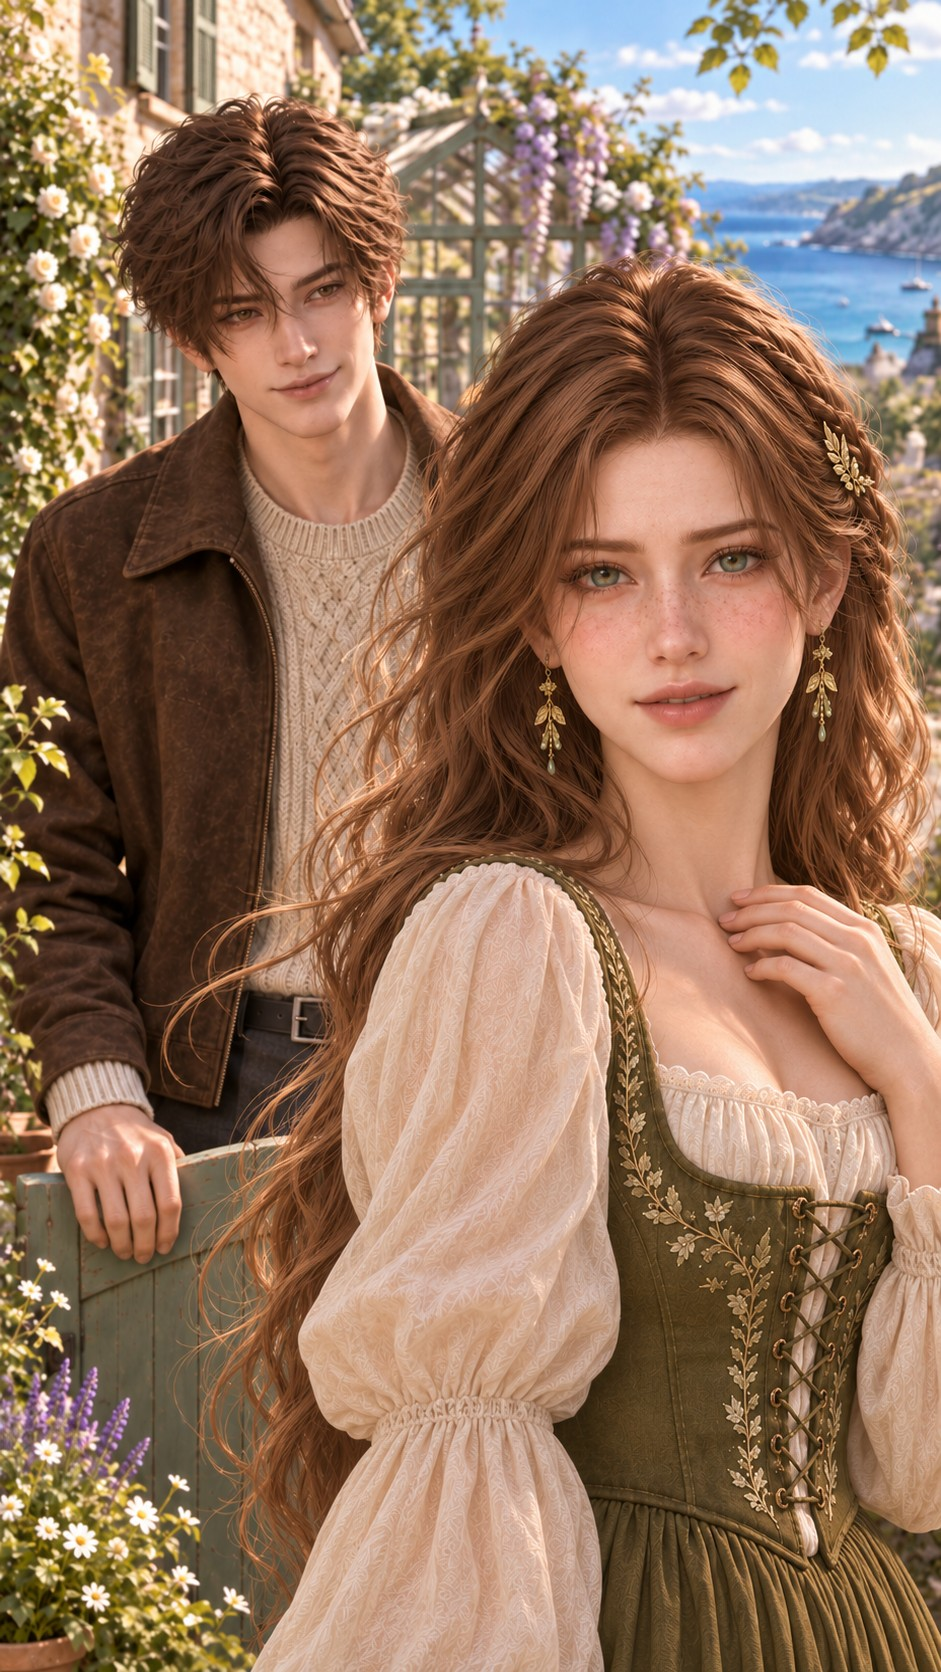
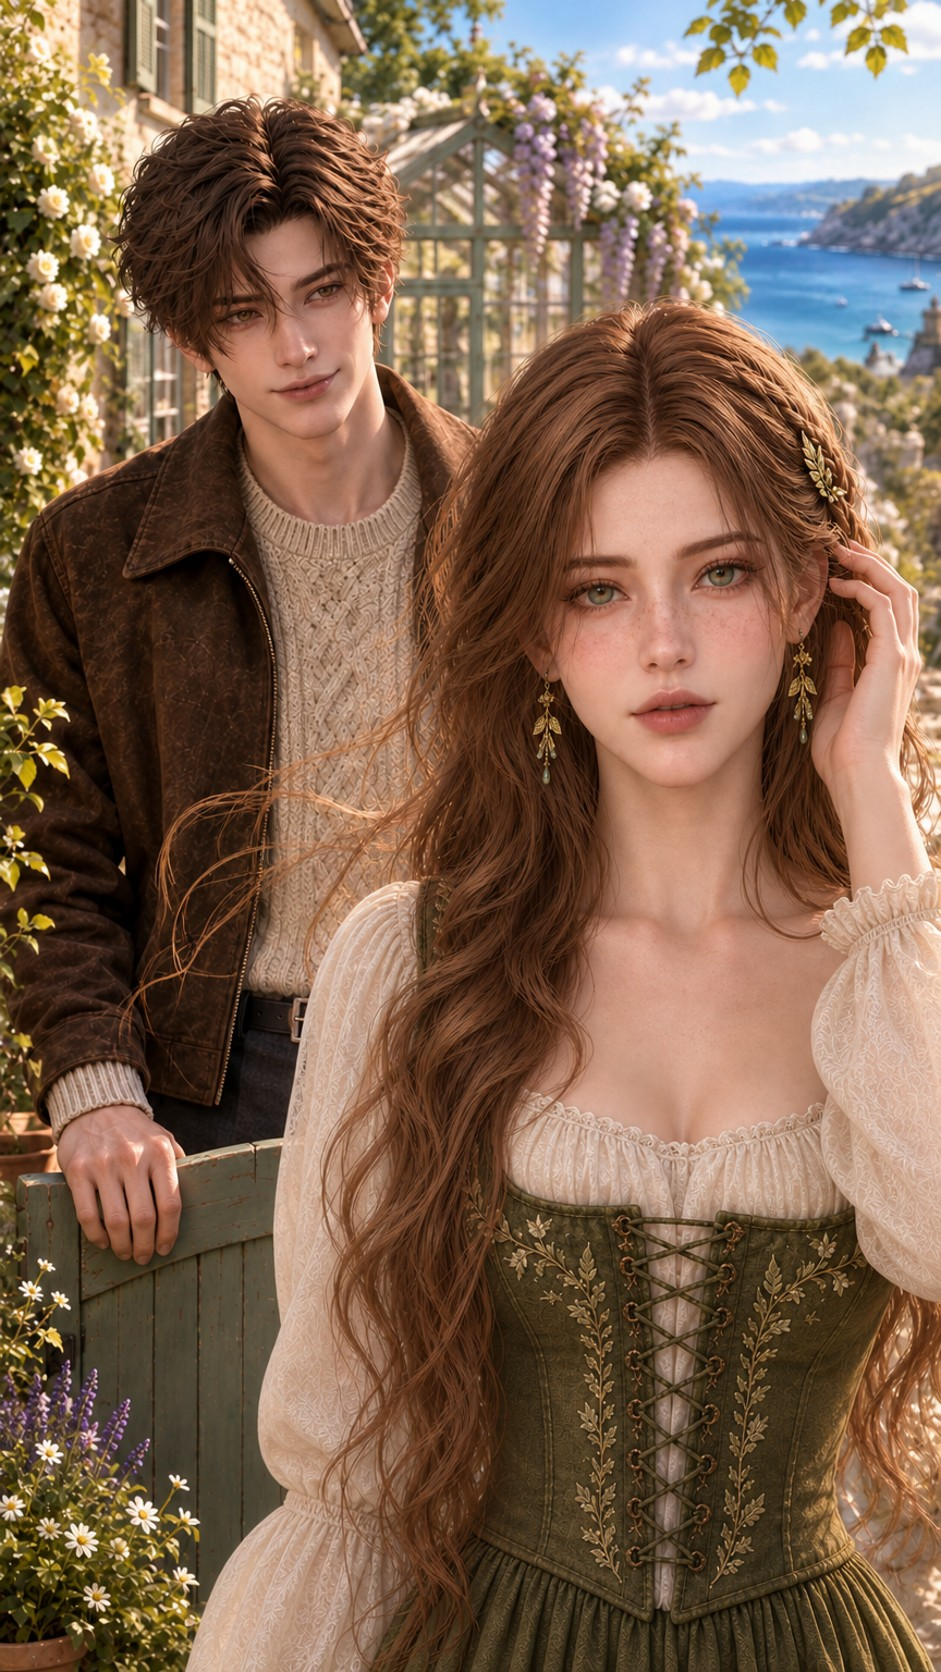
封面换成 C1（Vicky 改选：C 构图，女主正面撩发）

diff --git a/docs/index.html b/docs/index.html
@@ -182,7 +182,7 @@ applyLang(); $('modeMeta').textContent = MODE === 'auto' ? 'Auto length' : MODE.
 const esc = s => String(s == null ? '' : s).replace(/[&<>"]/g, c => ({'&': '&amp;', '<': '&lt;', '>': '&gt;', '"': '&quot;'}[c]));
 const setMode = m => { document.body.classList.remove('start', 'choosing', 'playing', 'waiting'); document.body.classList.add(m); };
 setMode('start');
-$('stage').style.background = '#000 url(media/poster.jpg?v=3) center/cover';
+$('stage').style.background = '#000 url(media/poster.jpg?v=4) center/cover';
 const chip = $('liveChip'); const setChip = h => { chip.innerHTML = h; chip.hidden = !h; };
 function toast(t){ const el = $('toast'); el.textContent = t; el.hidden = false; clearTimeout(toast.t); toast.t = setTimeout(() => el.hidden = true, 2200); }
 const subs = $('subs');
